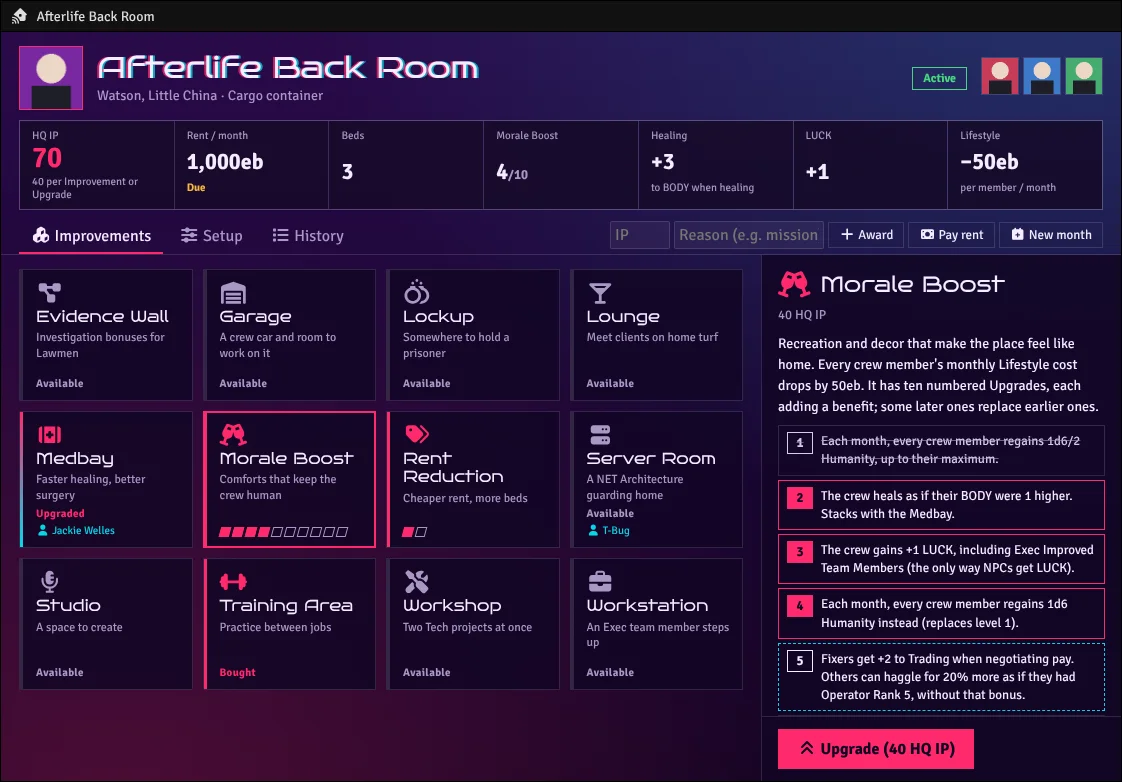
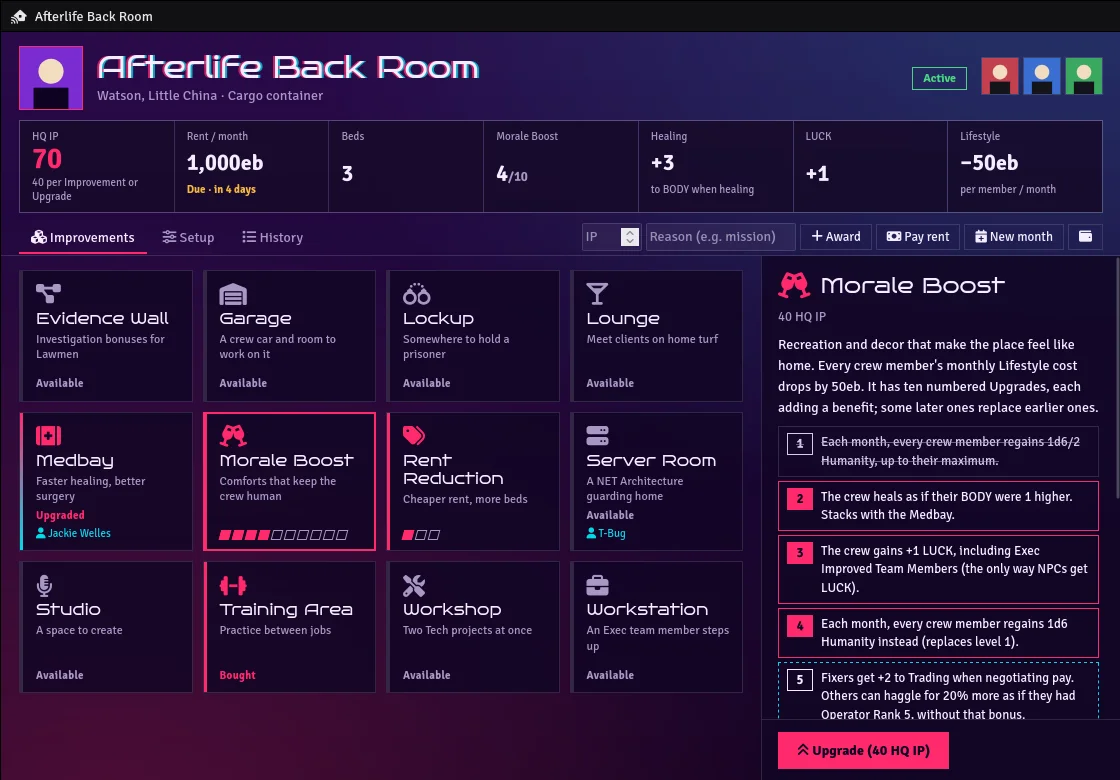
Update README screenshots for Lifestyle and Calendar
Refresh the hub editor (new Lifestyle and Calendar buttons) and
Headquarters (Lifestyle button, rent countdown) screenshots, and add
Lifestyle, Lifestyle catalog and Calendar screenshots.

diff --git a/README.md b/README.md
@@ -120,6 +120,8 @@ under `NEONHUB.Improvement` and `NEONHUB.Morale`.
 
 ## Lifestyle
 
+![Lifestyle window](docs/lifestyle.webp)
+
 Rent, food and everything else a character pays for each month. Open it from the **Lifestyle**
 button on a character sheet, in the **Actors** sidebar or on the Headquarters screen, or from a hub
 button set to *Open Lifestyle*.
@@ -138,6 +140,8 @@ lifestyle settings. It shows in the gear tab like anything else.
   added that way does nothing until the GM sets its amount and months on its Lifestyle settings.
 
 **The window**
+
+![Lifestyle catalog](docs/lifestyle-catalog.webp)
 
 - **Expenses** lists the character's items by group, with the month's bill, wallet, what's left
   after paying, and reminders (rough nights, monthly checks). Items have their own buttons: **Buy**
@@ -209,6 +213,8 @@ active housing, lifestyle package and health plans into the actor's `system.life
 `lifeStyle` and `traumaTeam` fields (part of CPR's data model, not shown on the 0.92 sheet).
 
 ## Calendar
+
+![Calendar with day notes](docs/calendar.webp)
 
 Open it from the calendar button in the left toolbar (Token Controls), a hub button set to *Open
 calendar*, or the Lifestyle window. It works with no scene on the canvas.
